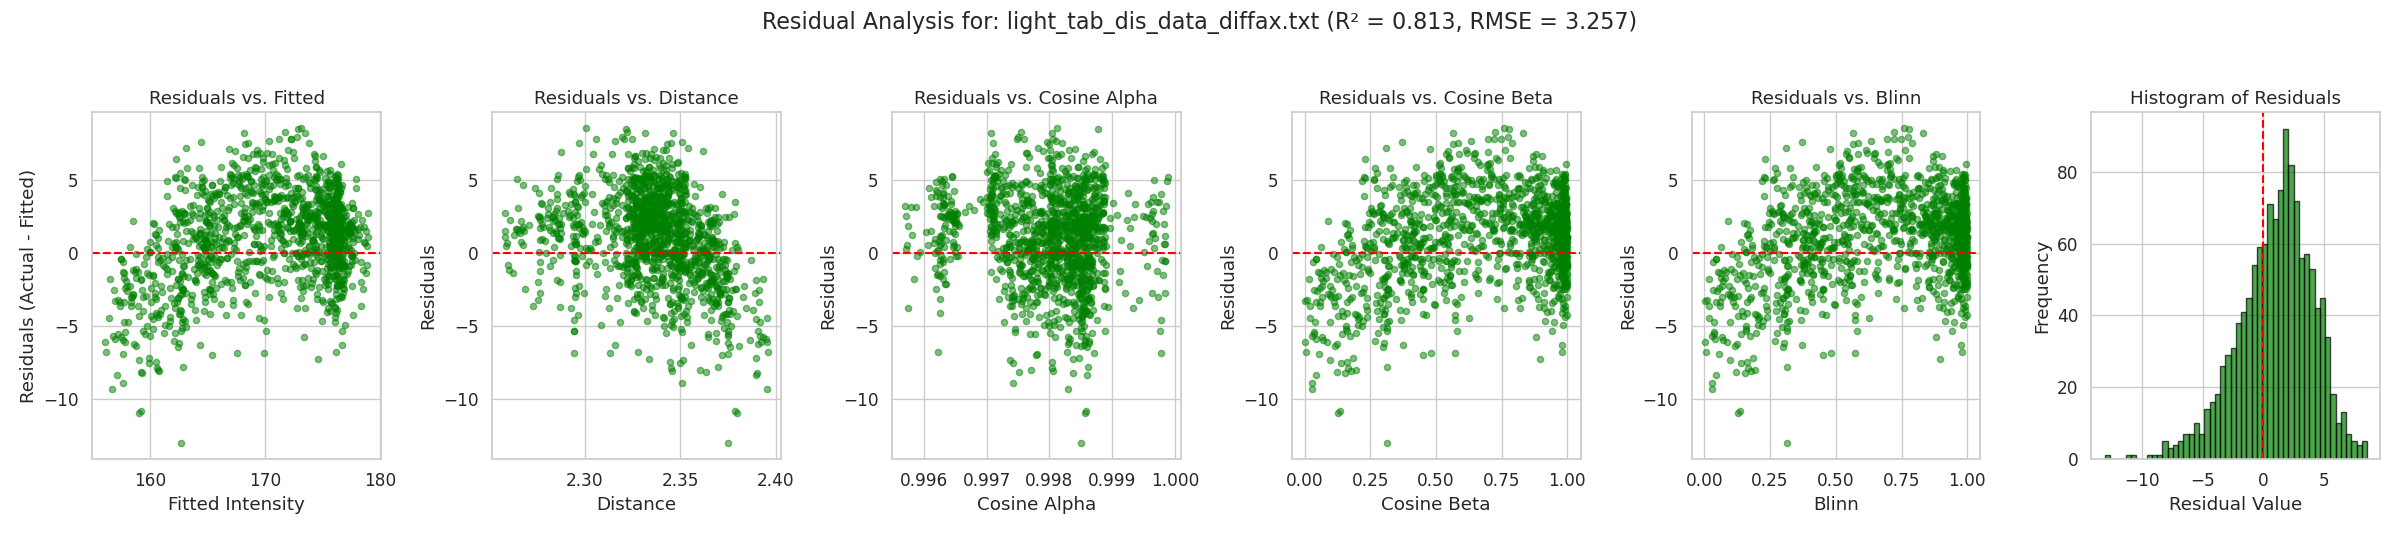
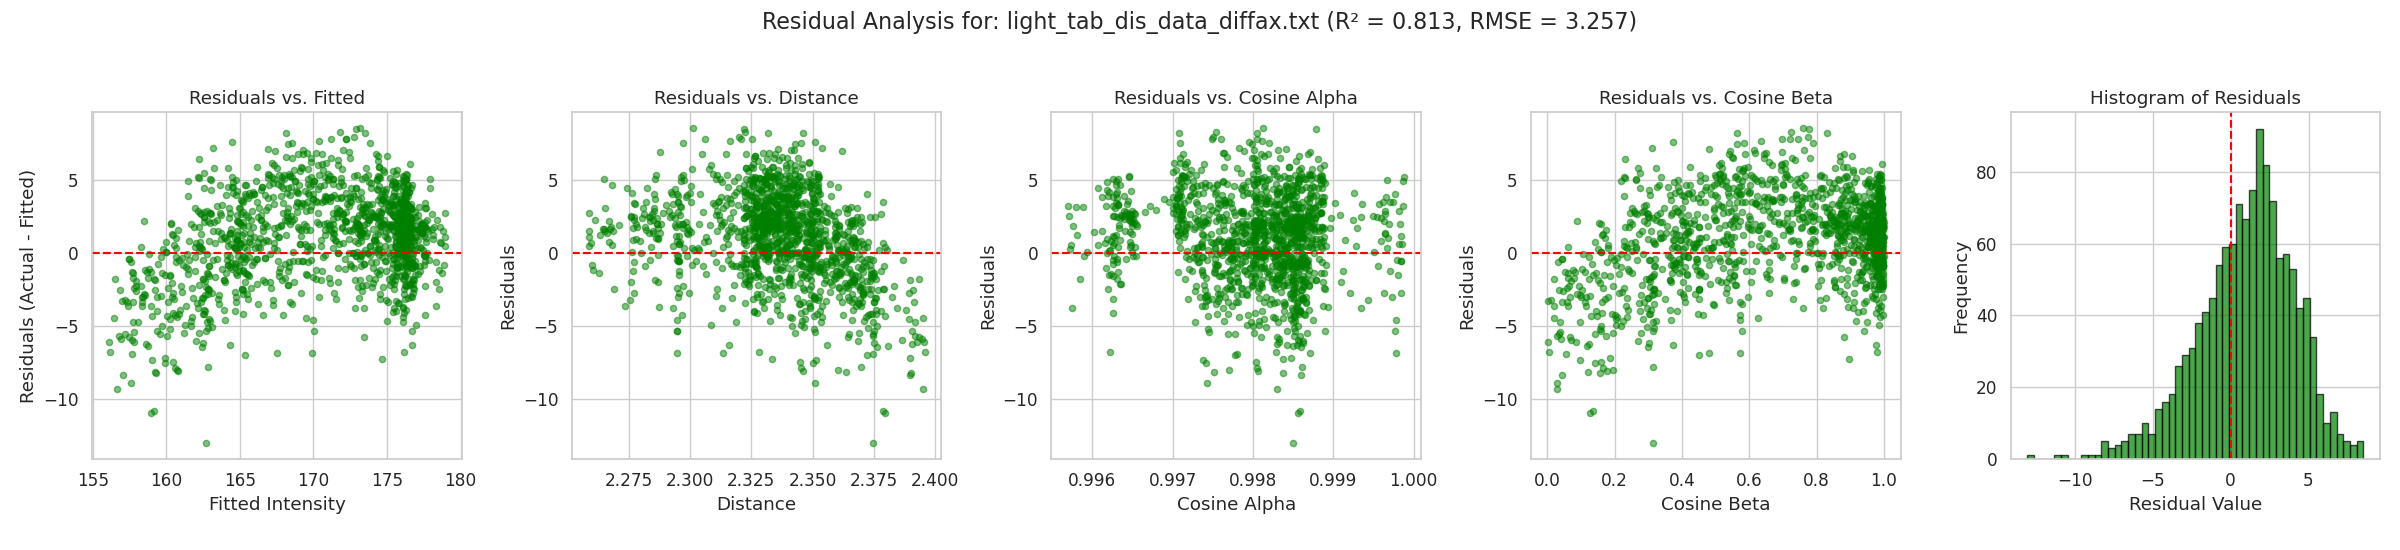
plo

diff --git a/mcap_plot/plot_filter.py b/mcap_plot/plot_filter.py
@@ -595,7 +595,7 @@ for data_array, filename in datasets:
     # --- Residual Plots ---
     residuals_val = intensity_raw - y_fitted
 
-    fig_res, axs_res = plt.subplots(1, 6, figsize=(24, 5.5)) # Slightly taller for titles
+    fig_res, axs_res = plt.subplots(1, 5, figsize=(24, 5.5)) # Slightly taller for titles
     fig_res.suptitle(f"Residual Analysis for: {filename} (R² = {r2:.3f}, RMSE = {rmse:.3f})", fontsize=16)
     
     # 1. Residuals vs. Fitted
@@ -630,21 +630,21 @@ for data_array, filename in datasets:
     axs_res[3].set_title("Residuals vs. Cosine Beta")
     axs_res[3].grid(True)
 
-    # 4. Residuals vs. Cosine Alpha
-    axs_res[4].scatter(beta, residuals_val, alpha=0.5, color='green', s=20)
-    axs_res[4].axhline(0, color='red', linestyle='--')
-    axs_res[4].set_xlabel("Blinn")
-    axs_res[4].set_ylabel("Residuals")
-    axs_res[4].set_title("Residuals vs. Blinn")
-    axs_res[4].grid(True)
+    # # 4. Residuals vs. Cosine Alpha
+    # axs_res[4].scatter(beta, residuals_val, alpha=0.5, color='green', s=20)
+    # axs_res[4].axhline(0, color='red', linestyle='--')
+    # axs_res[4].set_xlabel("Blinn")
+    # axs_res[4].set_ylabel("Residuals")
+    # axs_res[4].set_title("Residuals vs. Blinn")
+    # axs_res[4].grid(True)
 
     # 5. Histogram of Residuals
-    axs_res[5].hist(residuals_val, bins=50, alpha=0.7, color='green', edgecolor='black')
-    axs_res[5].axvline(0, color='red', linestyle='--')
-    axs_res[5].set_xlabel("Residual Value")
-    axs_res[5].set_ylabel("Frequency")
-    axs_res[5].set_title("Histogram of Residuals")
-    axs_res[5].grid(True)
+    axs_res[4].hist(residuals_val, bins=50, alpha=0.7, color='green', edgecolor='black')
+    axs_res[4].axvline(0, color='red', linestyle='--')
+    axs_res[4].set_xlabel("Residual Value")
+    axs_res[4].set_ylabel("Frequency")
+    axs_res[4].set_title("Histogram of Residuals")
+    axs_res[4].grid(True)
 
     plt.tight_layout(rect=[0, 0.03, 1, 0.95])
     plt.savefig(f'im2/{os.path.splitext(filename)[0]}_residuals.png')
